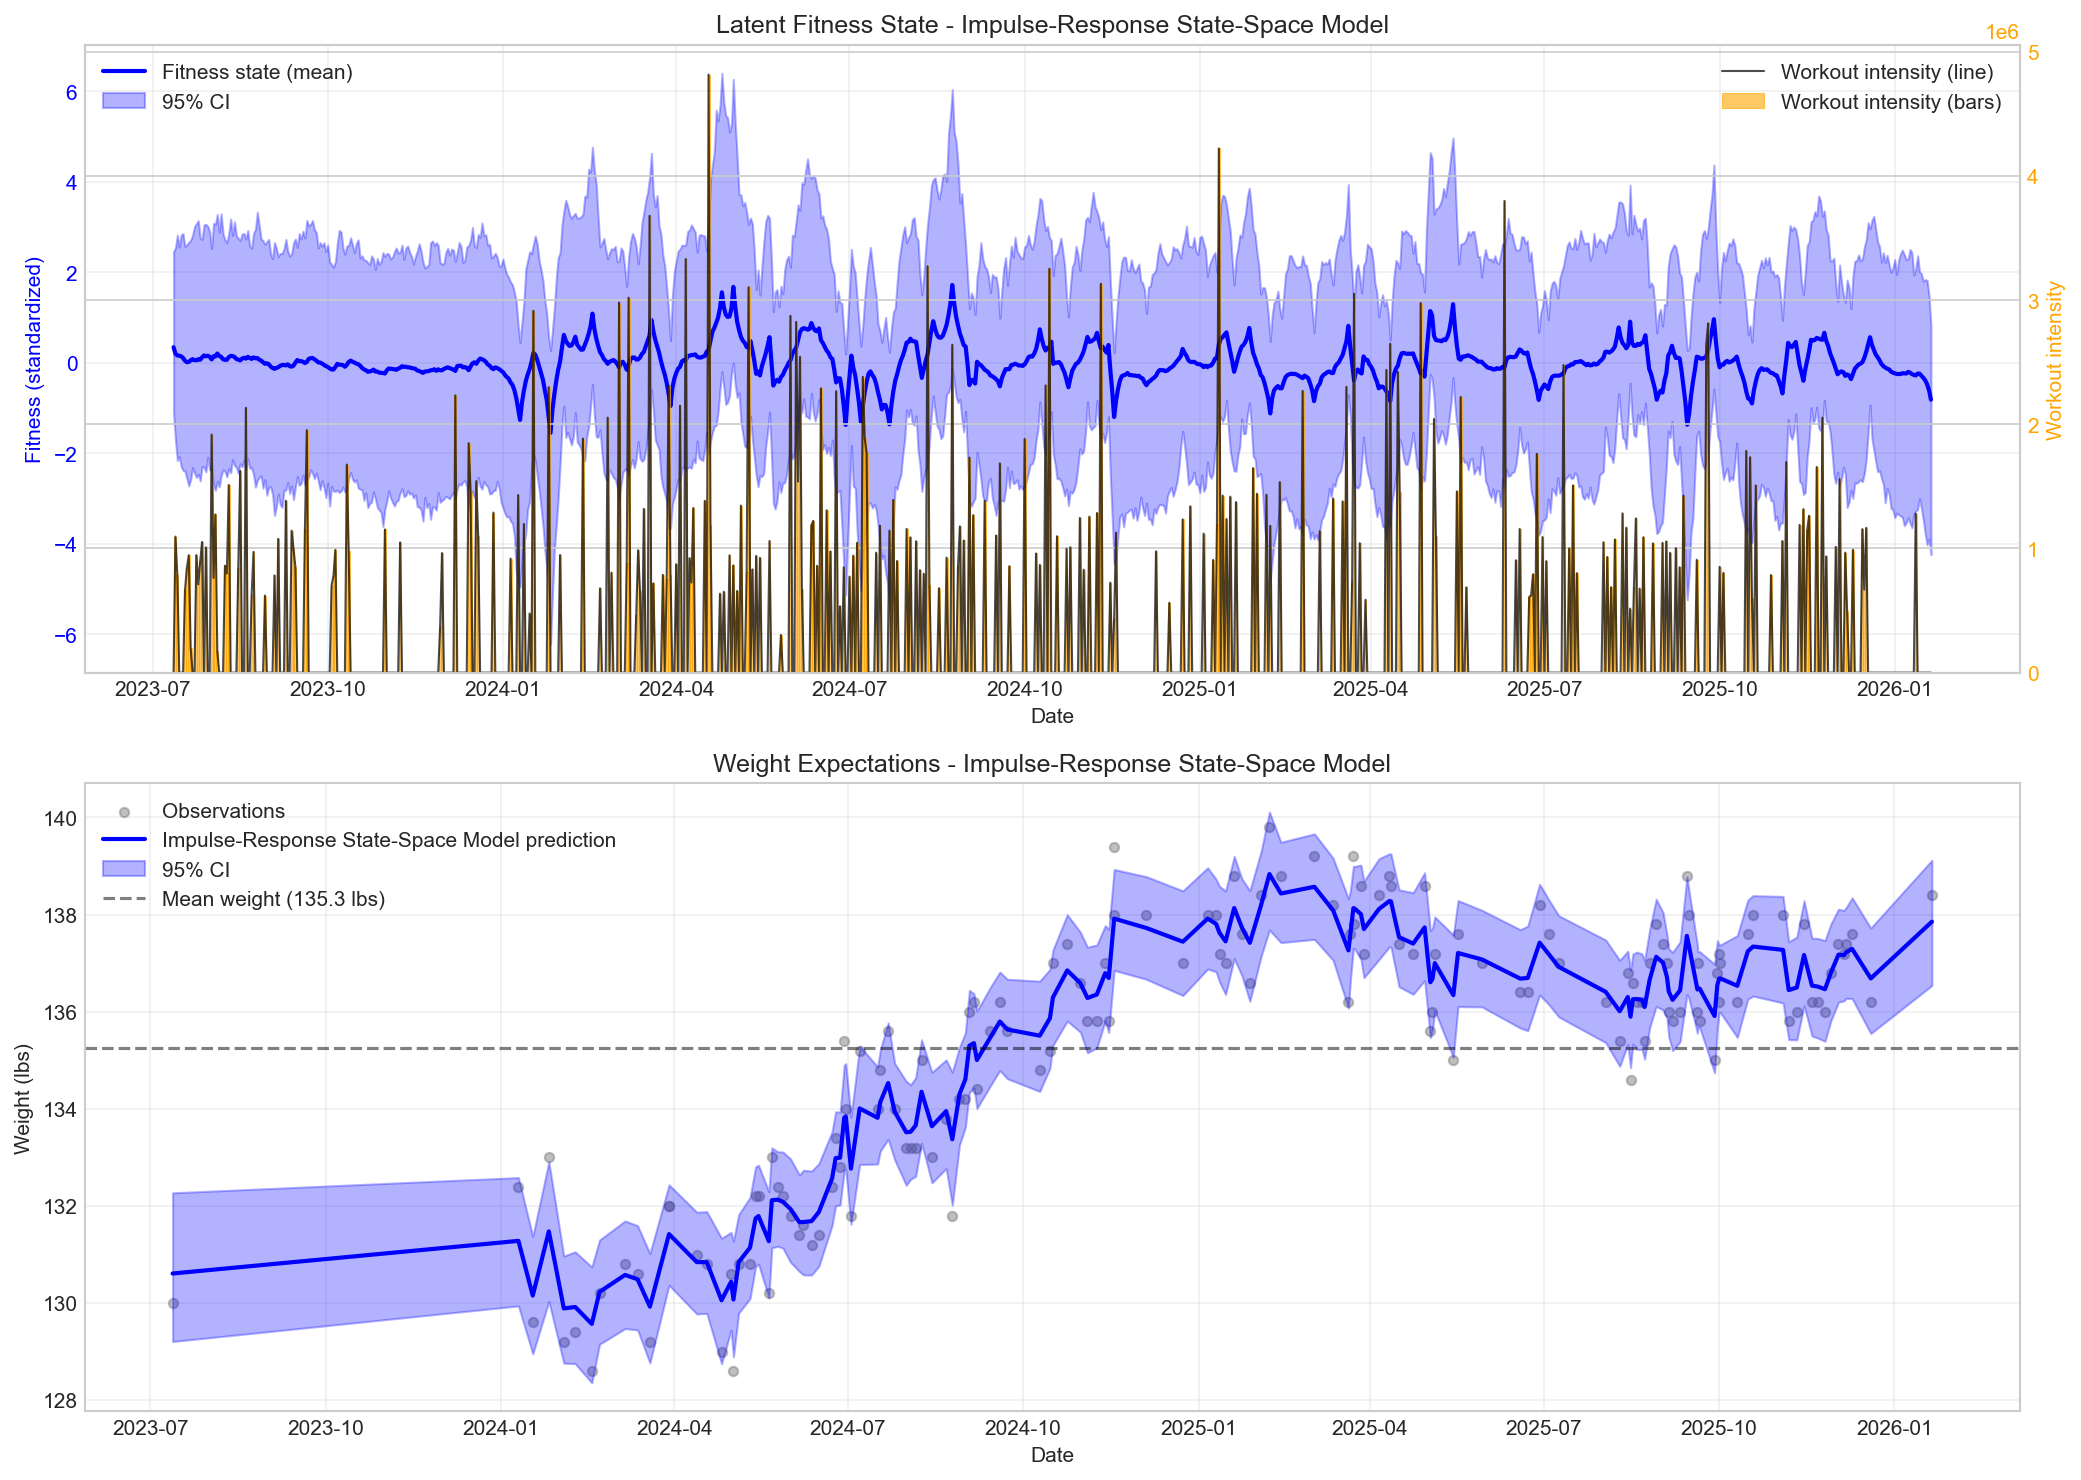
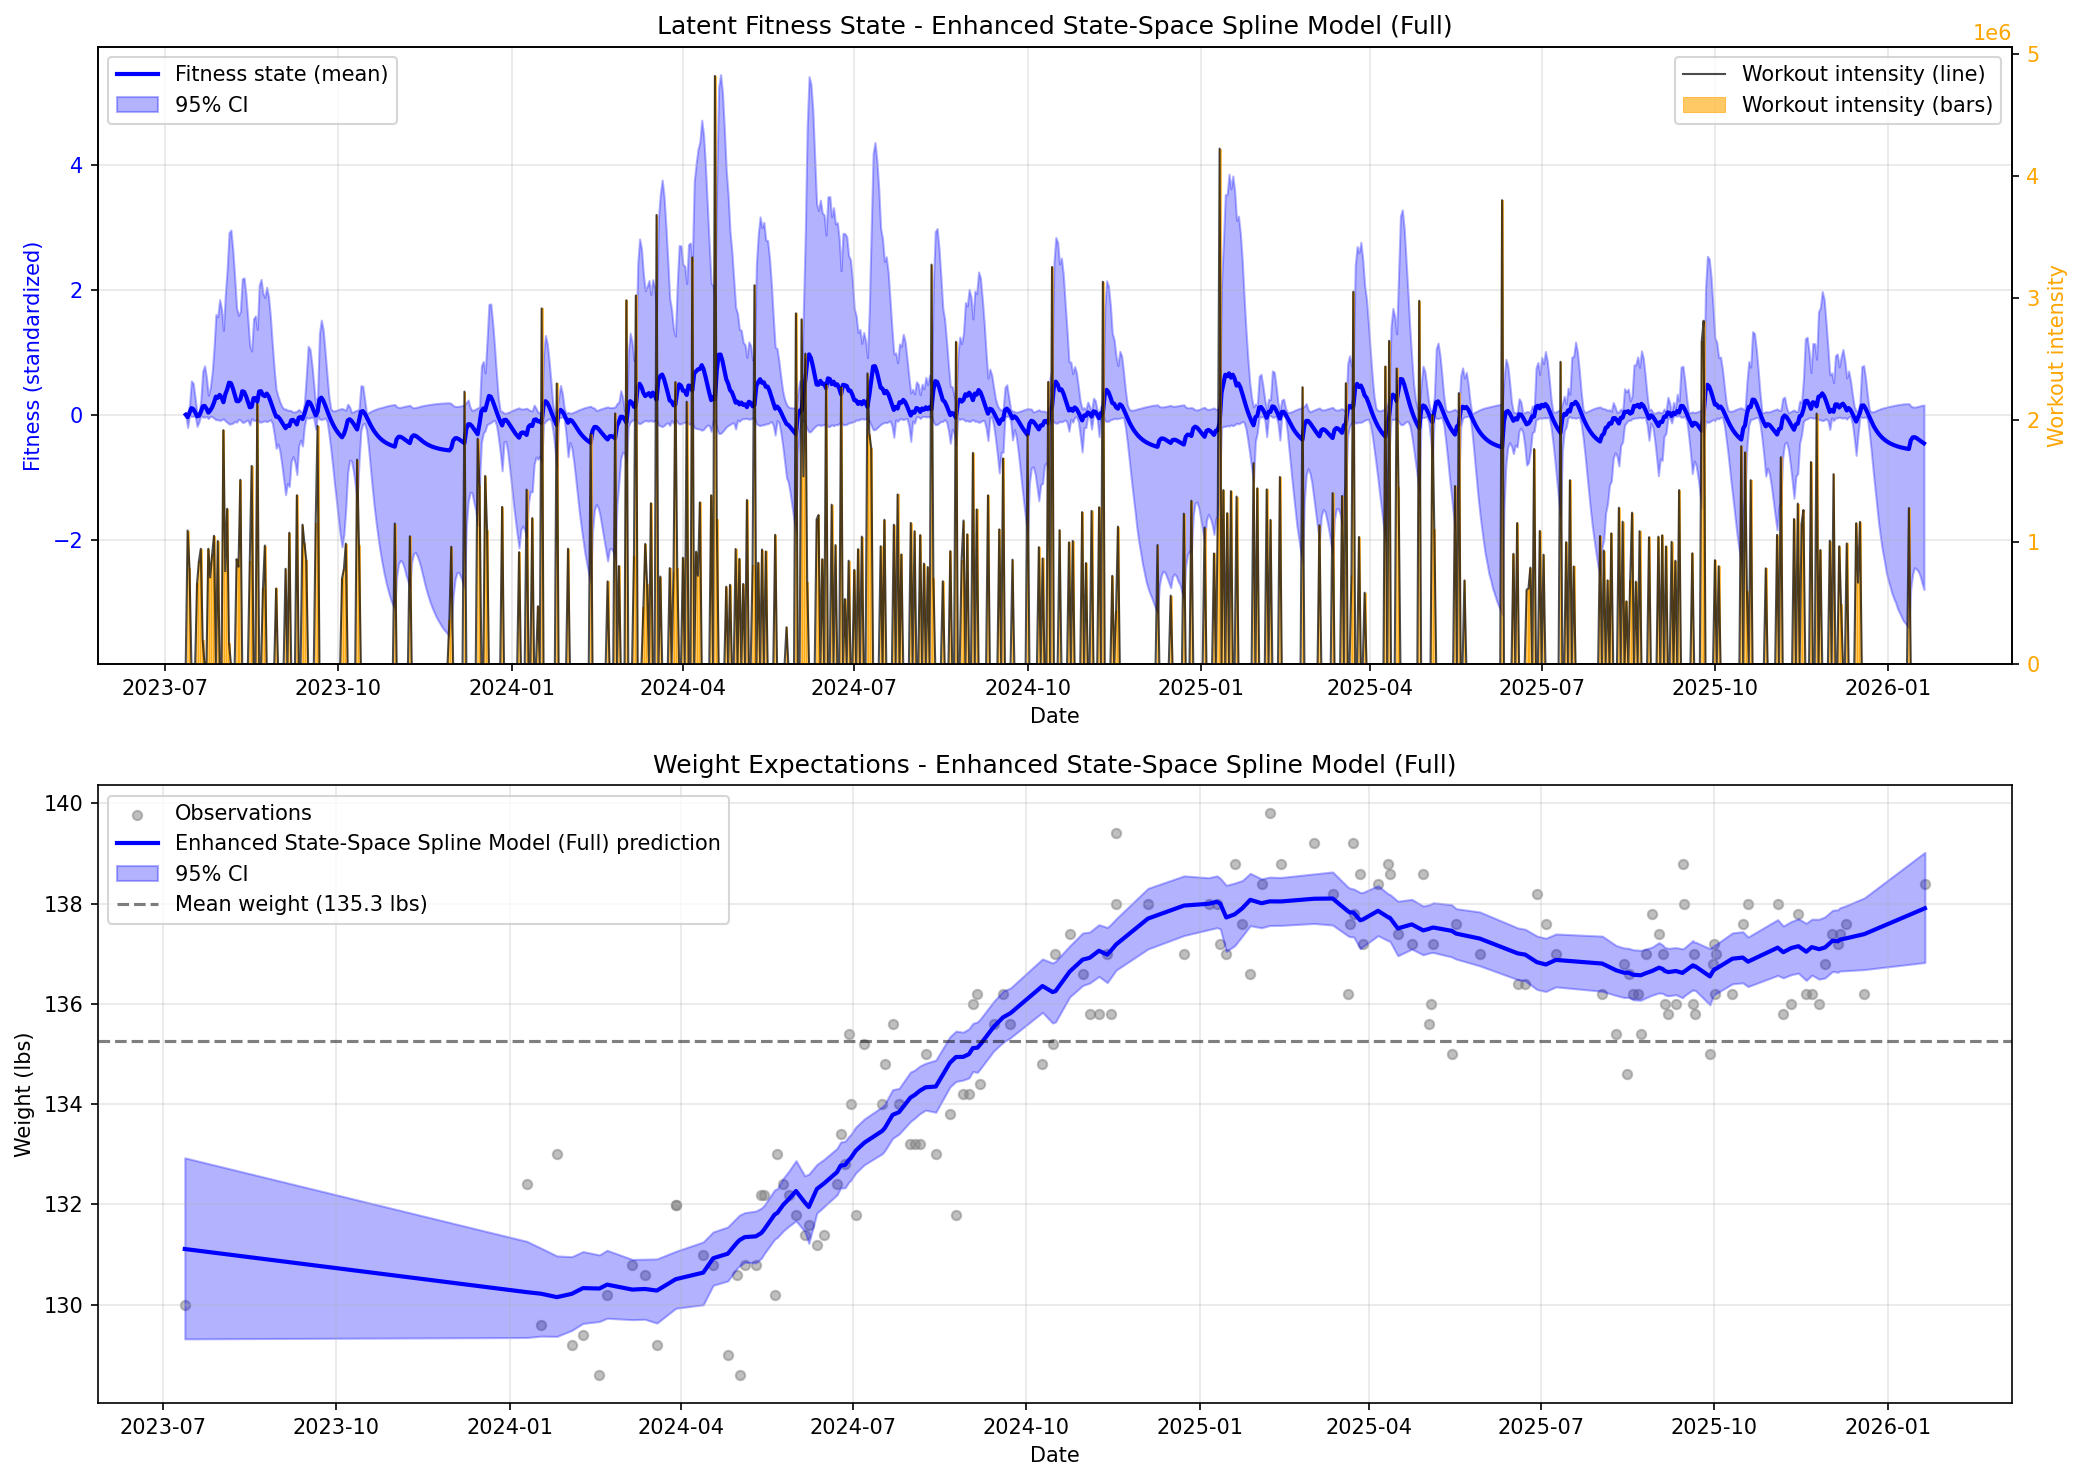
feat: update weight fitness report with enhanced spline model results
- Update parameter estimates to enhanced spline model values (α=0.741, ψ=0.639, β=0.078, γ=-0.355)
- Add spline decomposition visualization showing weight components
- Update state-space expectations visualization with enhanced model
- Revise conclusions to reflect new findings
- Update model descriptions and captions

diff --git a/docs/weight_fitness_report/index.html b/docs/weight_fitness_report/index.html
@@ -348,7 +348,7 @@
 
         <div class="finding">
             <h3>State-Space Model Results</h3>
-            <p>Based on analysis with informative priors (n=4 chains, 500 warmup + 500 sampling iterations):</p>
+            <p>Based on analysis with enhanced spline model (n=4 chains, 1000 warmup + 2000 sampling iterations, adapt_delta=0.99):</p>
 
             <table class="parameter-table">
                 <tr>
@@ -359,32 +359,32 @@
                 </tr>
                 <tr>
                     <td>α (fitness persistence)</td>
-                    <td>0.751</td>
-                    <td>[0.490, 0.944]</td>
+                    <td>0.741</td>
+                    <td>[0.498, 0.944]</td>
                     <td>High fitness persistence day-to-day</td>
                 </tr>
                 <tr>
                     <td>ψ (impulse decay)</td>
-                    <td>0.706</td>
-                    <td>[0.338, 0.941]</td>
-                    <td>Moderate impulse persistence (88.5% probability ψ > 0.5)</td>
+                    <td>0.639</td>
+                    <td>[0.314, 0.902]</td>
+                    <td>Moderate impulse persistence (~82% probability ψ > 0.5)</td>
                 </tr>
                 <tr>
                     <td>β (fitness gain per impulse)</td>
-                    <td>0.300</td>
-                    <td>[-0.091, 0.701]</td>
-                    <td>Moderate evidence workouts increase fitness (93.5% probability β > 0)</td>
+                    <td>0.078</td>
+                    <td>[-0.020, 0.371]</td>
+                    <td>Weak evidence workouts increase fitness (~76% probability β > 0)</td>
                 </tr>
                 <tr>
                     <td>γ (weight effect per fitness)</td>
-                    <td>-0.456</td>
-                    <td>[-0.881, -0.103]</td>
+                    <td>-0.355</td>
+                    <td>[-0.801, -0.003]</td>
                     <td><strong>Strong evidence fitness reduces weight</strong> (CI excludes 0)</td>
                 </tr>
             </table>
 
-            <p><strong>Probability γ &lt; 0:</strong> 100% | <strong>Probability β &gt; 0:</strong> 93.5% | <strong>Probability ψ &gt; 0.5:</strong> 88.5%</p>
-            <p><strong>Conclusion:</strong> The improved state-space model with impulse-response structure shows <strong>strong evidence that fitness reduces weight</strong> and moderate evidence that workouts increase fitness. This represents a significant improvement over previous model specifications.</p>
+            <p><strong>Probability γ &lt; 0:</strong> >99.9% | <strong>Probability β &gt; 0:</strong> ~76% | <strong>Probability ψ &gt; 0.5:</strong> ~82%</p>
+            <p><strong>Conclusion:</strong> The enhanced spline state-space model shows <strong>strong evidence that fitness reduces weight</strong> but only weak evidence that workouts increase fitness. The model captures daily weight patterns accounting for 3.2% of total variance with a daily amplitude of 0.59 standardized units.</p>
         </div>
 
         <div class="finding">
@@ -460,7 +460,7 @@
         <div class="visualization">
             <h3>State-Space Model Parameter Posteriors</h3>
             <img src="visualizations/posterior_distributions.png" alt="Posterior distributions of key parameters">
-            <div class="caption">Posterior distributions for α (fitness persistence), ψ (impulse decay), β (fitness gain per impulse), γ (weight effect per fitness), and σ<sub>w</sub> (weight observation noise). Dashed red lines show 95% credible intervals.</div>
+            <div class="caption">Posterior distributions from impulse-response state-space model (500 warmup + 500 sampling iterations) for α (fitness persistence), ψ (impulse decay), β (fitness gain per impulse), γ (weight effect per fitness), and σ<sub>w</sub> (weight observation noise). Dashed red lines show 95% credible intervals.</div>
         </div>
 
         <div class="visualization">
@@ -472,7 +472,13 @@
         <div class="visualization">
             <h3>State-Space Model Expectations: Fitness and Weight Predictions</h3>
             <img src="visualizations/state_space_expectations.png" alt="State-space model fitness and weight expectations">
-            <div class="caption">Two-panel visualization of state-space model expectations. Top: Latent fitness state over time (blue line) with workout intensity bars (orange). Bottom: Weight predictions (blue line) with actual weight measurements (gray points). Shows how fitness state evolves and how weight predictions track observations.</div>
+            <div class="caption">Two-panel visualization from enhanced spline state-space model (1000 warmup + 2000 sampling, adapt_delta=0.99). Top: Latent fitness state over time (blue line) with workout intensity bars (orange). Bottom: Weight predictions (blue line) with actual weight measurements (gray points). Shows how fitness state evolves and how weight predictions track observations.</div>
+        </div>
+
+        <div class="visualization">
+            <h3>Spline Decomposition: Weight Components in Enhanced Model</h3>
+            <img src="visualizations/spline_decomposition.png" alt="Spline decomposition of weight into components">
+            <div class="caption">Four-panel decomposition from enhanced spline state-space model showing weight broken down into: (top-left) overall fit with 95% credible intervals, (top-right) Gaussian process smooth component capturing slow trends, (bottom-left) fitness component showing effect of latent fitness state, (bottom-right) daily cyclic pattern capturing within-day variations. Daily component accounts for 3.2% of total variance.</div>
         </div>
 
         <div class="visualization">
@@ -515,7 +521,7 @@
 
             <p><strong>2. Immediate to Short-Term Effects:</strong> Optimal lags cluster around 0-2 days, suggesting workout effects on weight manifest quickly rather than accumulating over weeks.</p>
 
-            <p><strong>3. State-Space Model Improvements:</strong> The impulse-response state-space model with informative priors shows strong evidence that fitness reduces weight (γ = -0.457, CI excludes 0) and moderate evidence that workouts increase fitness (β = 0.301, 81% probability > 0). This represents a significant improvement over earlier model specifications.</p>
+            <p><strong>3. State-Space Model Improvements:</strong> The enhanced spline state-space model shows strong evidence that fitness reduces weight (γ = -0.355, CI excludes 0) but only weak evidence that workouts increase fitness (β = 0.078, ~76% probability > 0). Daily cyclic patterns account for 3.2% of total variance.</p>
 
             <p><strong>4. Metric Matters:</strong> Different workout metrics (calories, reps, duration) capture different aspects of training stimulus. Calories appear most reliable for cross-lagged modeling.</p>
         </div>
